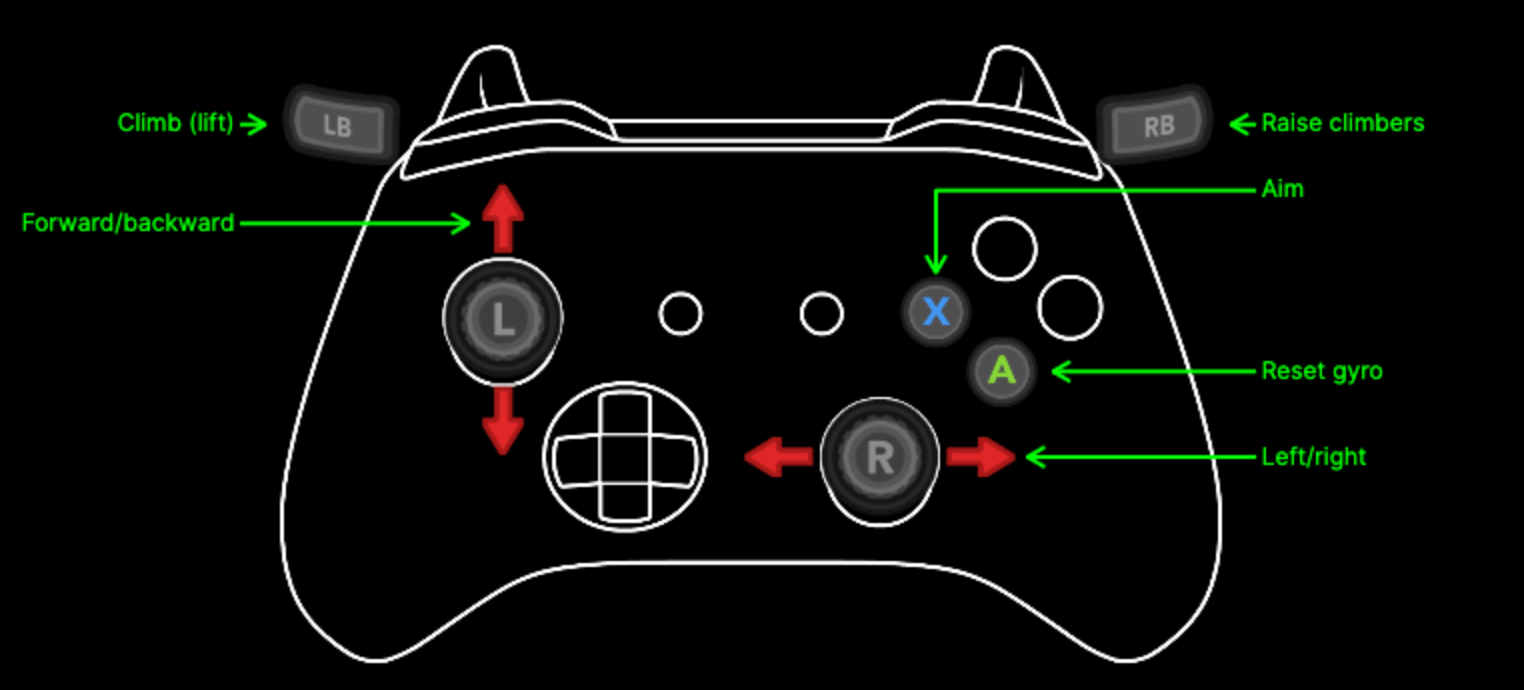
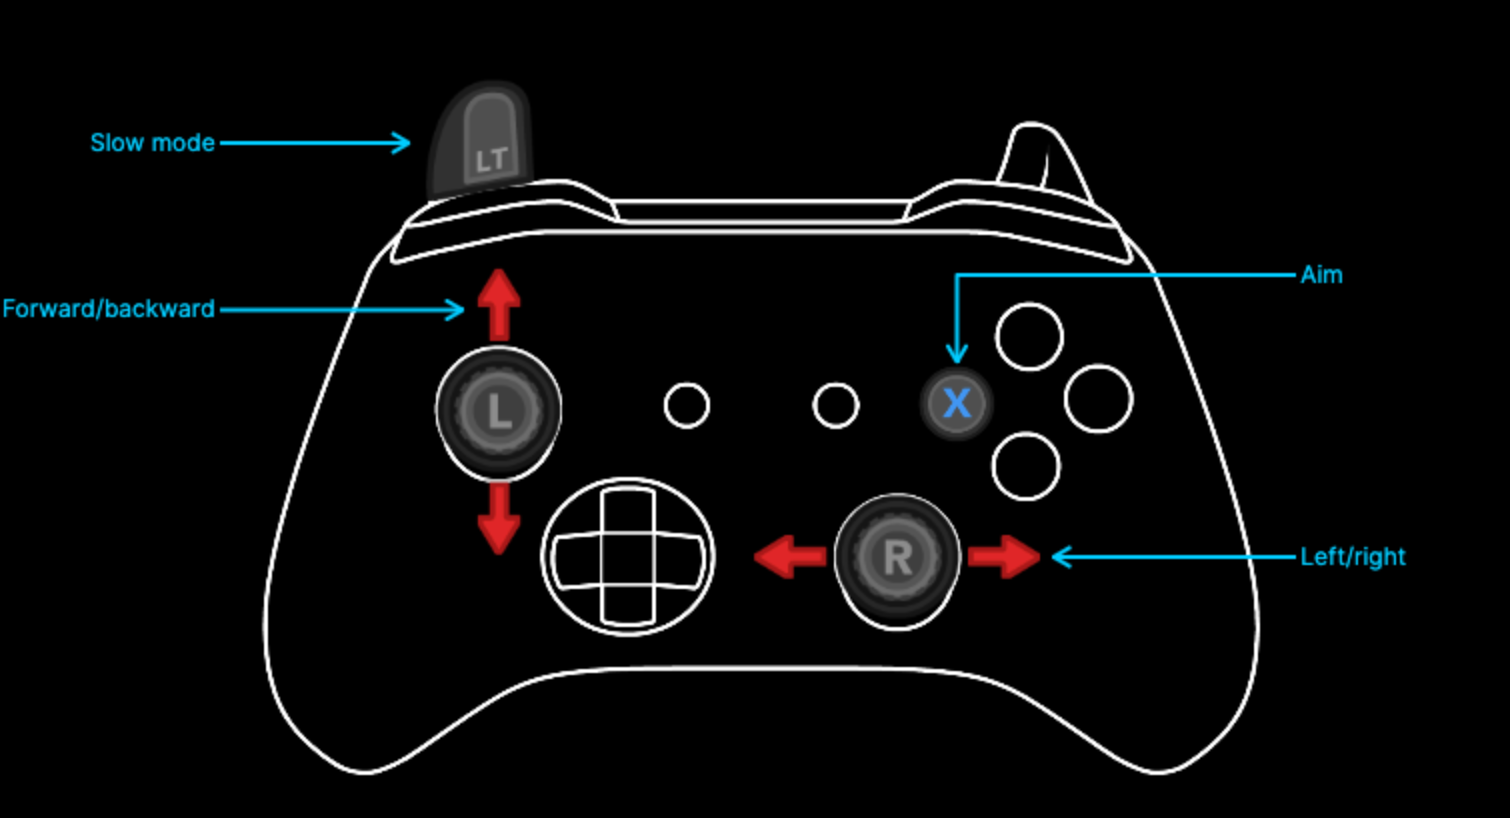
Update controls

diff --git a/robotcontainer.py b/robotcontainer.py
@@ -42,7 +42,7 @@ class RobotContainer:
         # A Subsystem is a collection of motors, sensors, and other hardware objects that are operated on by a Command.
         self.driveSubsystem = CANDriveSubsystem()
         self.fuelSubsystem = CANFuelSubsystem(self.operatorController)
-        self.hopperSubsystem = CANHopperSubsystem()
+        self.hopperSubsystem = CANHopperSubsystem(self.operatorController)
 
         self.visionLocalizer = VisionLocalizer(self.driveSubsystem)
         self.frontVisionCamera = VisionCamera("limelight-front")
@@ -86,12 +86,6 @@ class RobotContainer:
         self.operatorController.rightBumper().whileTrue(Eject(self.fuelSubsystem))
 
         self.driverController.x().whileTrue(Aim(self.driveSubsystem, self.fuelSubsystem))
-
-        # FOR TESTING PURPOSES ONLY
-        self.driverController.leftBumper().onTrue(ShrinkHopper(self.hopperSubsystem))
-        self.driverController.rightBumper().onTrue(GrowHopper(self.hopperSubsystem))
-
-        self.driverController.a().whileTrue(JostleHopper(self.hopperSubsystem))
 
         self.driveSubsystem.setDefaultCommand(
             Drive(self.driveSubsystem, self.driverController)

diff --git a/subsystems/canfuelsubsystem.py b/subsystems/canfuelsubsystem.py
@@ -67,17 +67,20 @@ class CANFuelSubsystem(commands2.Subsystem):
         self.intakeLauncherRoller.set(0)
 
     def periodic(self) -> None:
-        leftTrigger = self.controller.getLeftTriggerAxis()
-        rightTrigger = self.controller.getRightTriggerAxis()
+        rightY = self.controller.getRightY()
+        if rightY < 0.1 and rightY > -0.1:
+            rightY = 0
 
-        if leftTrigger < 0.1:
-            leftTrigger = 0
+        self.multiplier += rightY * 0.002
 
-        if rightTrigger < 0.1:
-            rightTrigger = 0
+        leftTrigger = self.controller.leftTrigger()
+        rightTrigger = self.controller.rightTrigger()
 
-        self.multiplier -= leftTrigger * 0.001
-        self.multiplier += rightTrigger * 0.001
+        if leftTrigger:
+            self.multiplier = 0.64
+
+        if rightTrigger:
+            self.multiplier = 0.85
 
         self.multiplier = max(min(self.multiplier, FuelConstants.SHOOT_MULT_UPPER), FuelConstants.SHOOT_MULT_LOWER)
 

diff --git a/subsystems/canhoppersubsystem.py b/subsystems/canhoppersubsystem.py
@@ -1,11 +1,14 @@
 import commands2
+import math
 from constants import HopperConstants
 import rev
 import wpilib
 
 class CANHopperSubsystem(commands2.Subsystem):
-    def __init__(self) -> None:
+    def __init__(self, operatorController) -> None:
         super().__init__()
+
+        self.controller = operatorController
 
         self.extensionMotor = rev.SparkMax(
             HopperConstants.EXTENSION_MOTOR_ID,
@@ -42,5 +45,12 @@ class CANHopperSubsystem(commands2.Subsystem):
         self.extensionMotor.set(0)
 
     def periodic(self):
+        leftY = self.controller.getLeftY()
+        if leftY < 0.5 and leftY > -0.5:
+            leftY = 0
+
+        if self.getExtensionPosition() < HopperConstants.EXTENSION_NUM_ROTATIONS and self.getExtensionPosition() > 0.1:
+            self.setExtension(math.copysign(HopperConstants.EXTENSION_MOTOR_VOLTAGE, leftY))
+        
         wpilib.SmartDashboard.putNumber("Hopper position", self.getExtensionPosition())
 
